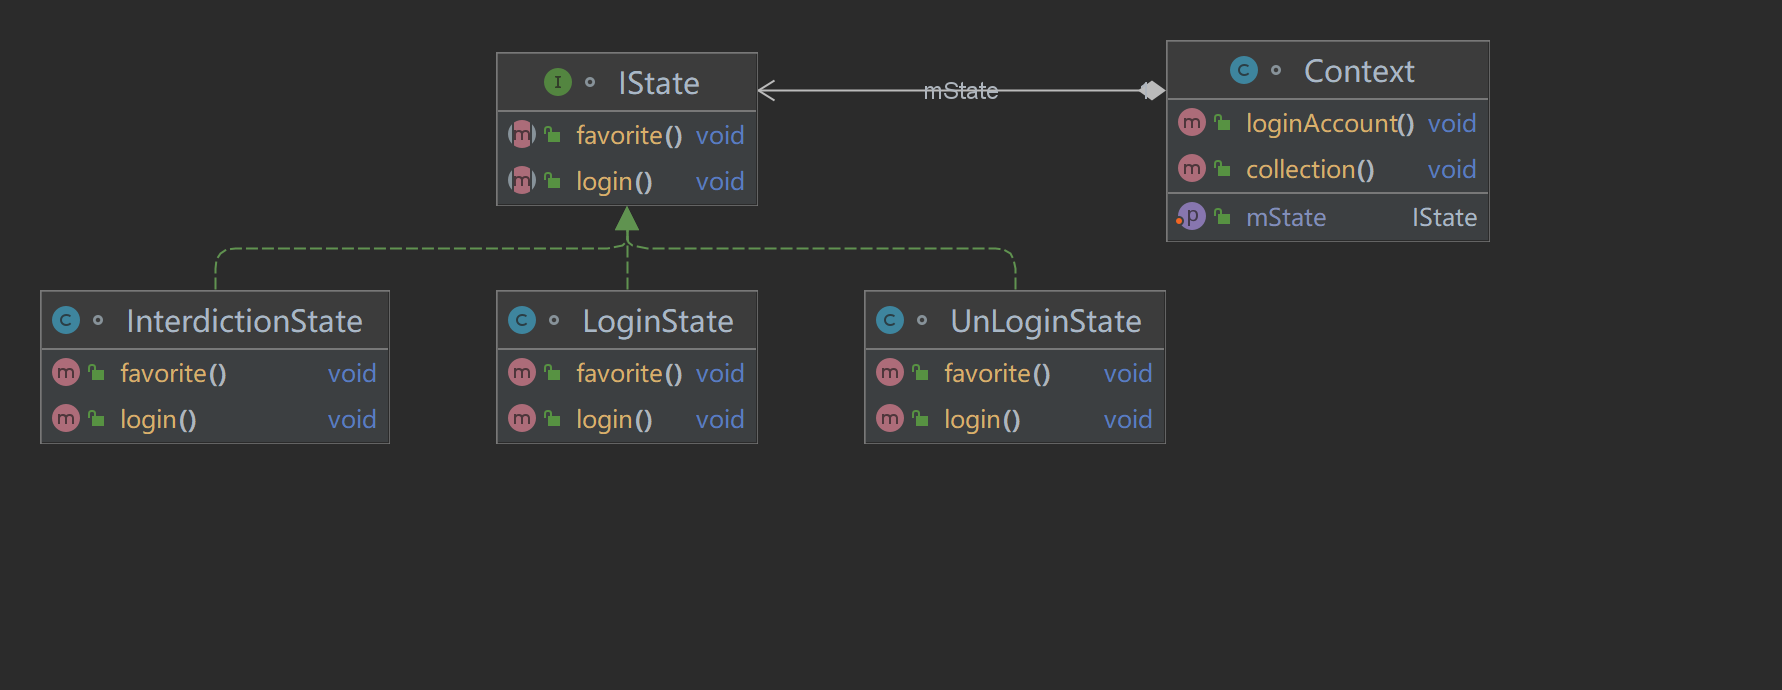
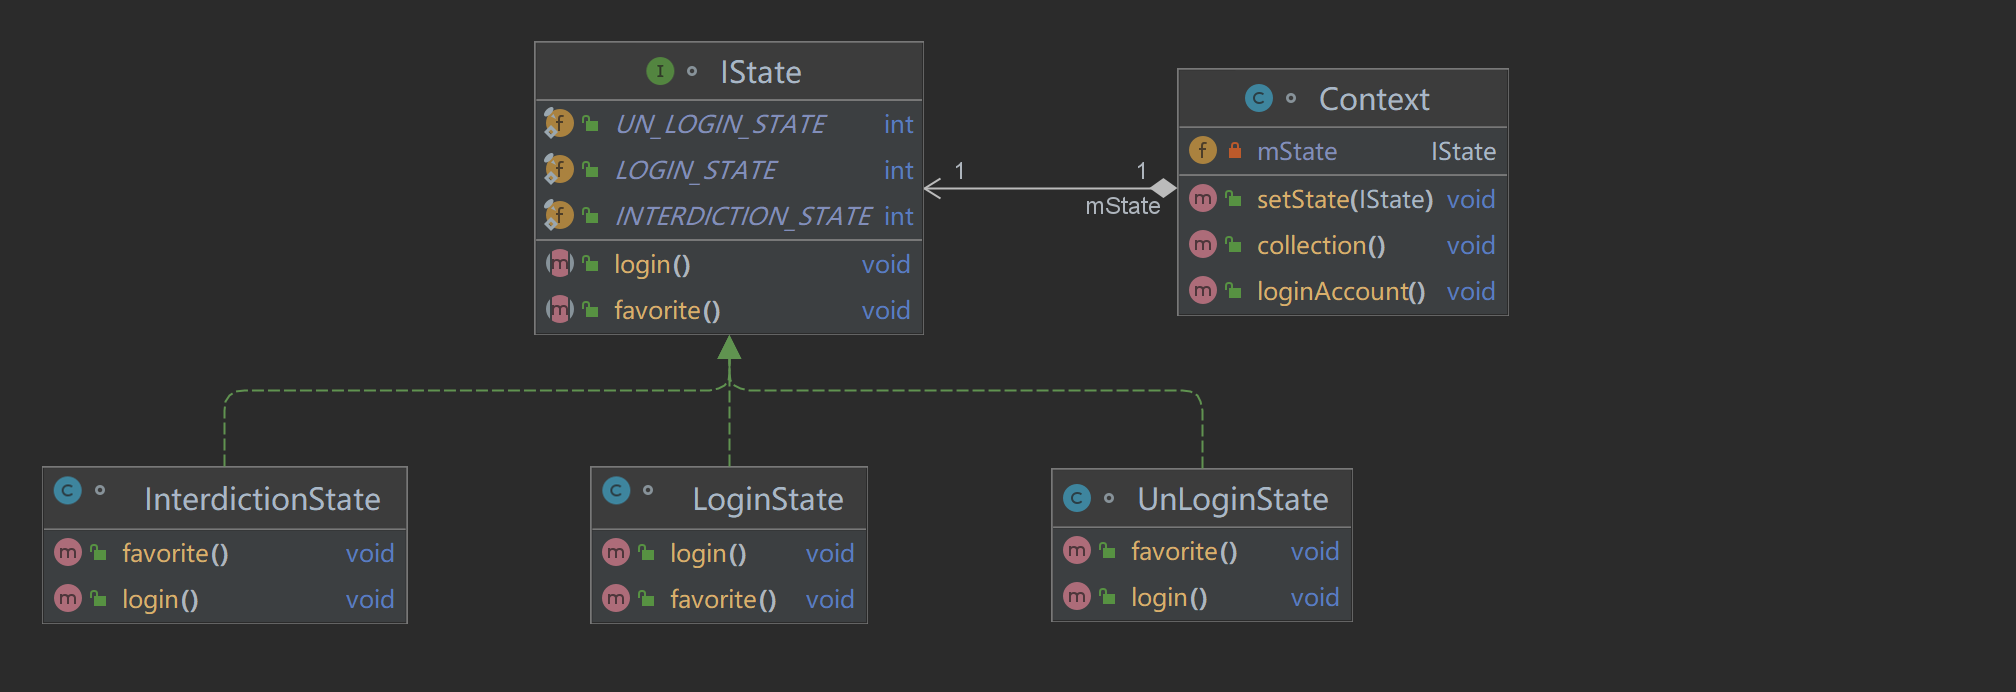
状态模式修改

diff --git a/doc/行为型模式/状态模式/状态模式.md b/doc/行为型模式/状态模式/状态模式.md
@@ -10,7 +10,7 @@
     2.代码中包含大量的与状态有关的条件语句时，if—else或switch。
 
 ## UML图
-![](state.png)
+![](状态模式.png)
 
 ## 业务场景
     实现淘宝的登录和收藏功能。用户有三种登录状态，已登录，未登录，账号被封。
@@ -165,10 +165,11 @@ class UnLoginState implements IState {
 /**
  * @author：TianLong
  * @date：2022/10/18 21:12
- * @detail：环境类，维护状态变化，对外提供功能
+ * @detail：环境类，通过该类维护状态变化，对外提供功能
+ *          也可以集成进客户端，由客户端来维护状态变化
  */
 class Context  {
-    // 默认复制为未登录状态
+    // 默认为未登录状态，也可以设置为null
     private IState mState = new UnLoginState();
 
     public void setState(IState state) {
